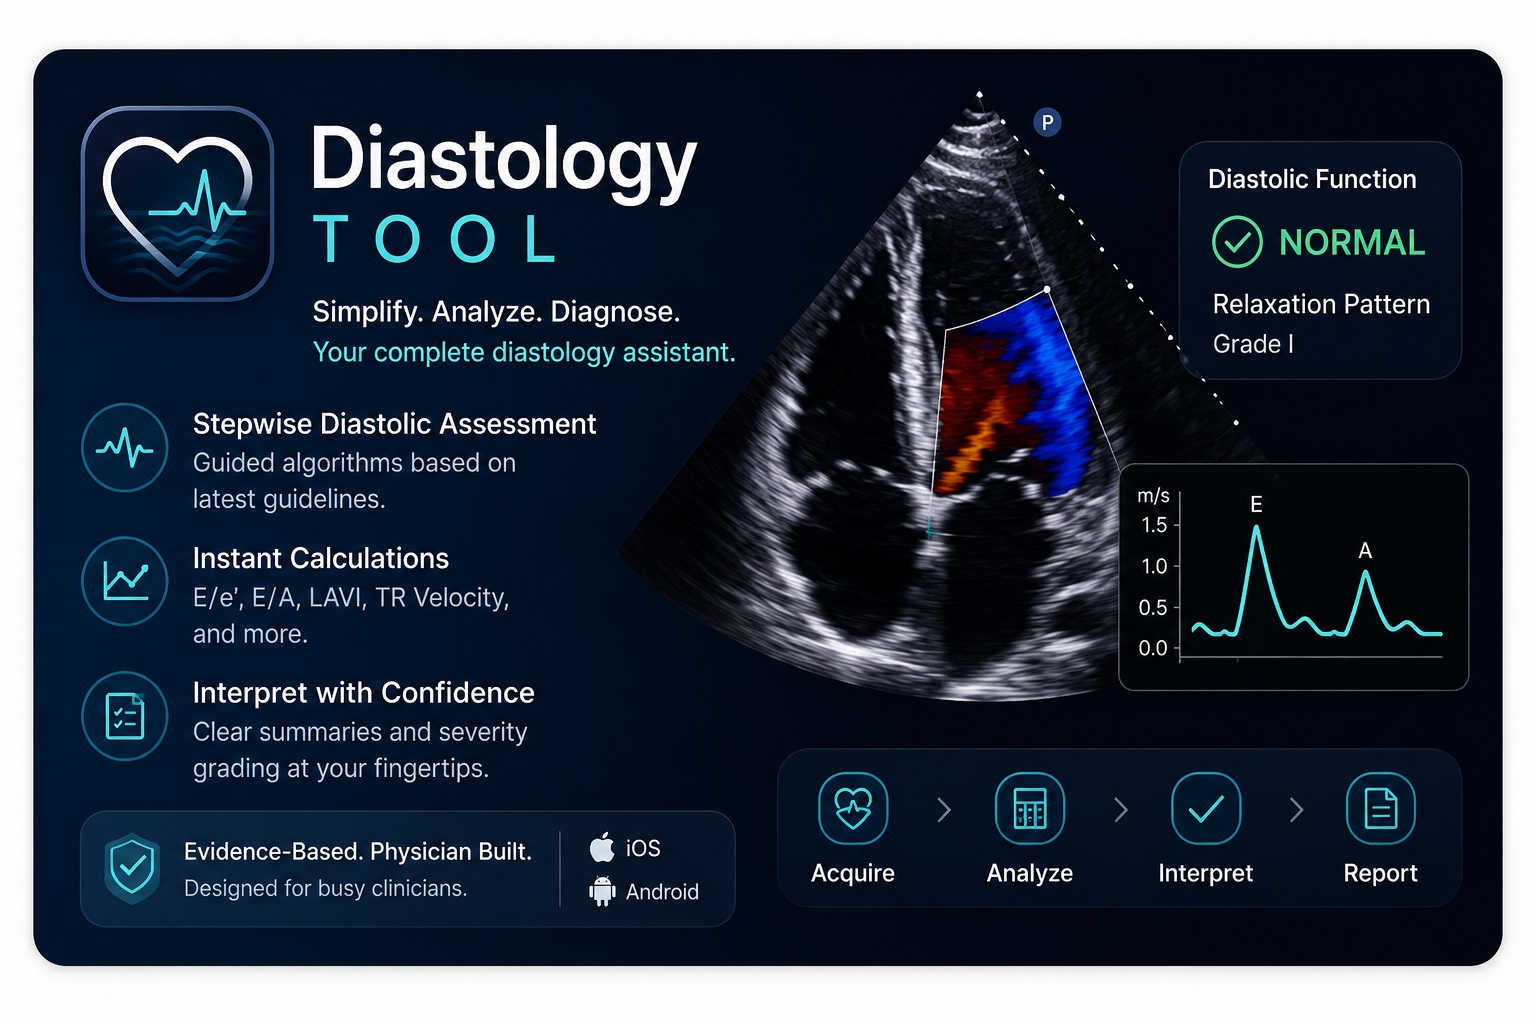
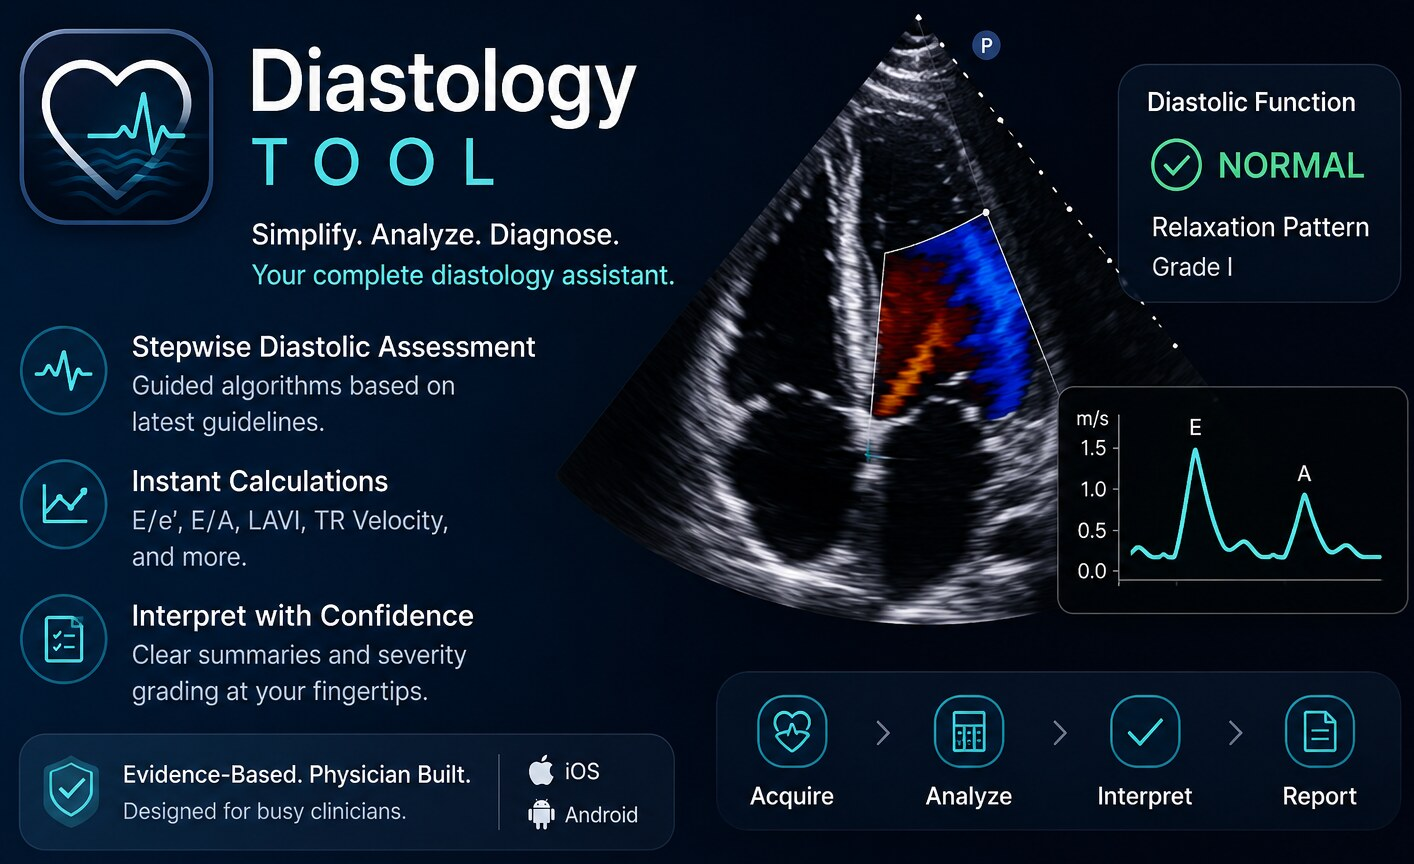
Crop white margin out of the link-preview image
The marketing graphic had a white canvas around the dark card, which showed as a white border in rich link previews (iMessage, etc). Trimmed to the cards edges, including past the rounded corners so no white corner slivers remain.

diff --git a/index.html b/index.html
@@ -12,8 +12,8 @@
 <meta property="og:title" content="Diastology Tool">
 <meta property="og:description" content="Simplify. Analyze. Diagnose. Stepwise ASE diastolic function & LAP grading — free, runs entirely in your browser.">
 <meta property="og:image" content="https://diastologytool.netlify.app/og-image.jpg">
-<meta property="og:image:width" content="1536">
-<meta property="og:image:height" content="1024">
+<meta property="og:image:width" content="1414">
+<meta property="og:image:height" content="864">
 
 <!-- Twitter Card -->
 <meta name="twitter:card" content="summary_large_image">